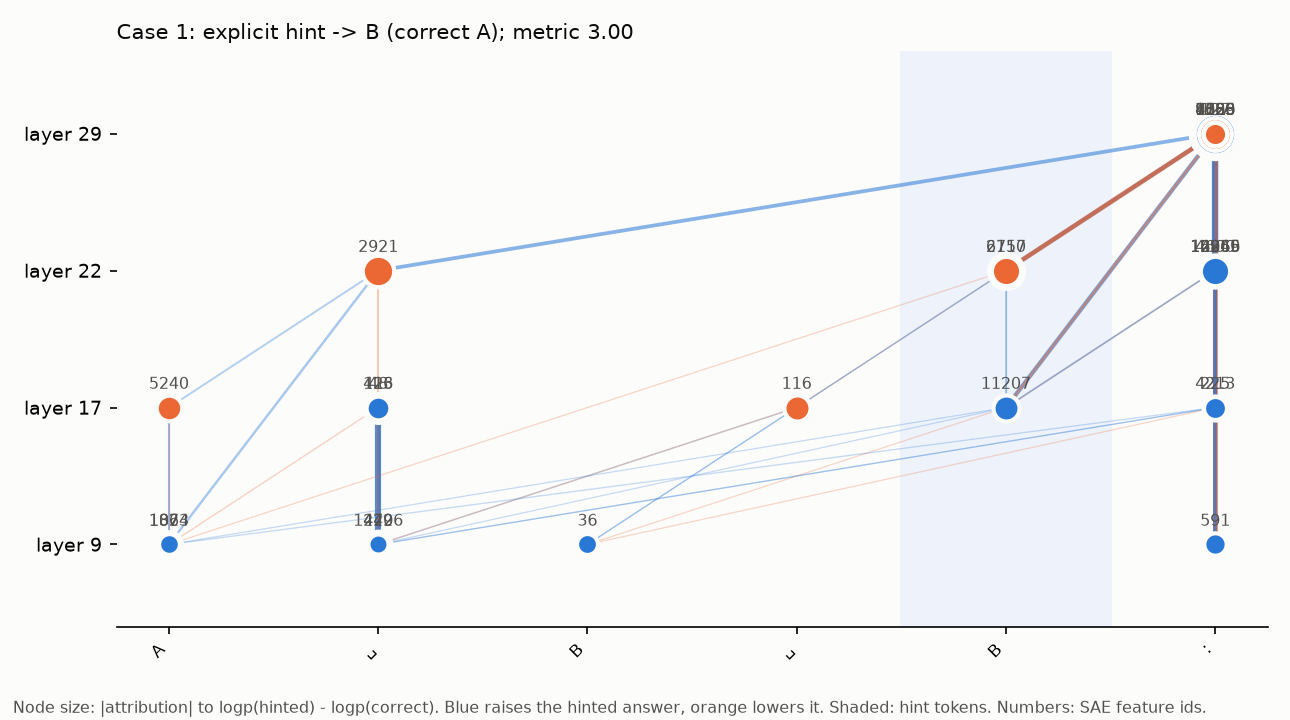
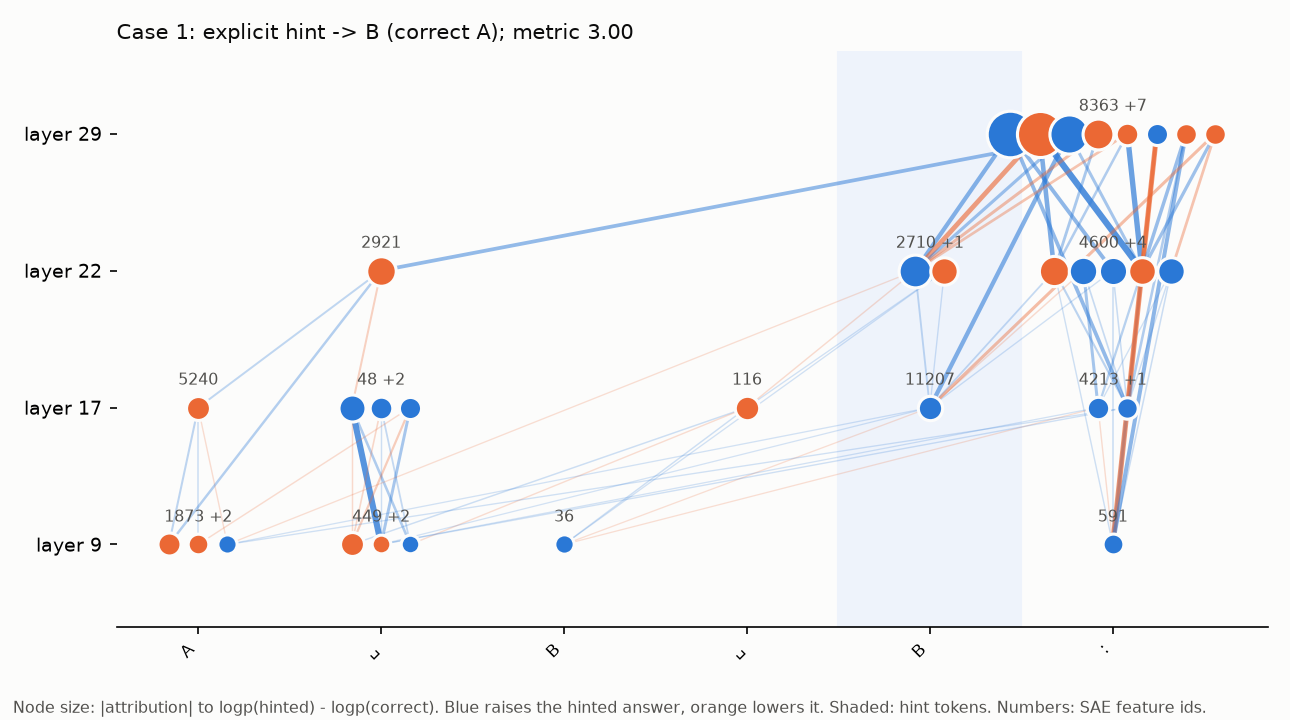
Phase 2 complete: causal tests, labels, attribution graphs, SAE follow-ups, report
- Readout P(hinted letter) predicts Phase 1 unfaithful cases (AUROC 0.83-0.91)
- Causal features are answer-letter features on hint tokens (layer 17: -0.83 log-P, 87%->75%);
  correlation-ranked answer-point features are not causal; no authority features found
- Full CoT regeneration: decisions unchanged (35/40), Mac reproduces TPU labels (35/40)
- SAE follow-ups: MedGemma 2-3x less sensitive to any perturbation (resolves Phase 0 KL puzzle);
  65k SAEs do not fix later layers; fit holds on generated reasoning
- Related-work comparison (Ayadi & Hautli-Janisz, ACL 2026 SRW and others)

Changed region(s): [[0.124, 0.1222, 0.9612, 0.7639], [0.4341, 0.55, 0.4651, 0.5806]]

diff --git a/reports/phase2.md b/reports/phase2.md
@@ -1,0 +1,290 @@
+# Phase 2 report: what happens inside MedGemma 4B when it silently follows a hint?
+
+**Date:** 2026-11-14 · **Status:** complete · **Model:** MedGemma 4B on the Mac (HF transformers)
+· **Tools:** Gemma Scope 2 base-model ("pt") residual SAEs, 16k features, layers 9/17/22/29
+
+## Summary
+
+- **The hint travels as an answer letter, not as an authority signal.** The features with
+  the clearest causal role sit on the hint's own tokens at layers 17 and 22. Two independent
+  label sources, MedGemma examples labeled by Qwen and Neuronpedia's base-model explanations,
+  describe them as **"multiple-choice answer letter" / "option label" features**. The model
+  picks up the letter inside the hint ("…the answer is **B**") as an answer option and
+  carries it to its answer. No "authority" or "deference" feature emerged.
+- **Switching those features off weakens hint-following, but doesn't stop it.**
+  - Removing 10 such layer-17 features, only on the hint's tokens, cut the pull toward the
+    hinted answer (log-probability −0.83, 95% CI −1.34 to −0.38). Hint-following at the
+    moment of answering fell from 87% to 75%. Matched random features changed nothing.
+  - In **full step-by-step regeneration, the same intervention changed the wording of 35 of
+    40 answers but not the decisions** (35/40 followed the hint before and after). The hint's
+    information is carried redundantly.
+- **The features that best separate unfaithful from unaffected cases are not causes.**
+  Layer-22 features at the answer point that separate the two groups well (AUROC up to 0.83)
+  have almost no effect when removed (−0.07). Their labels are about punctuation and format,
+  which suggests they track the outcome rather than drive it.
+- **A cheap one-pass readout works as a stand-in for full generation.** Reading the
+  probability of the hinted letter right after a prefilled "Final answer:" predicts which
+  Phase 1 cases were unfaithful, with AUROC 0.83–0.91.
+- **The Mac reproduces the Phase 1 (TPU) labels.** 35 of 40 cases labeled unfaithful from TPU
+  answers also follow the hint on the Mac.
+
+![Causal tests](figures/phase2_causal_tests.png)
+
+*Each blue bar is removing the top 10 features in one place. The orange bars are matched
+random features. Only features read off the hint's own tokens (bottom two rows) clearly
+matter.*
+
+## What was built
+
+| Piece | What it does |
+|---|---|
+| `src/medlens/interp/features.py` | The one-pass readout (prefilled "Final answer:") and feature capture at 3 positions |
+| `src/medlens/interp/interventions.py` | Removes or scales chosen SAE features everywhere, at given tokens, or per row in batched generation |
+| `src/medlens/interp/attribution.py` | Attribution graphs (gradient × activation through spliced SAEs) |
+| `scripts/phase2_capture.py` | Readouts and features for 375 questions × 6 conditions (2,250 prompts) |
+| `scripts/phase2_analyze.py` | Readout check, differential features, cue features |
+| `scripts/phase2_attr_rank.py` | Ranks features by attribution over 40 unfaithful cases |
+| `scripts/phase2_causal.py` | Causal tests: one-pass readout, and full step-by-step regeneration |
+| `scripts/phase2_interpret.py` | Feature labels (Neuronpedia + Qwen 27B on Tinker) with a held-out check |
+| `scripts/phase2_graphs.py` | Attribution graphs for 8 cases |
+| `scripts/phase2_sae_followups.py` | Phase 0 follow-ups: noise control, 65k SAEs, generated text |
+
+All runs are in `outputs/phase2_*` (not committed). There are 73 tests, all passing.
+
+## Method in plain English
+
+- **SAE features.** A Gemma Scope 2 SAE rewrites the model's internal state at one layer as a
+  few active "features," each of which tends to mean one thing. We use the base-model SAEs
+  (the best fit in Phase 0). Their numbering matches Neuronpedia's `gemma-3-4b` features,
+  which we verified via the SAE ID.
+- **The readout.** We add "Final answer:" at the start of the model's reply and read its
+  probabilities for the letters A–D. That's one forward pass, about 1 second, and it shows
+  how the model leans before reasoning.
+- **Three kinds of evidence:**
+  1. **Correlation:** which features rise under the hint more in unfaithful than in unaffected
+     cases (compared against the same question with the sham sentence).
+  2. **Attribution:** gradient × activation, an estimate of how much each feature at each
+     token pushes toward the hinted letter rather than the correct one.
+  3. **Causation:** remove the features (subtract their contribution, leaving everything else
+     untouched) and see whether the pull drops, compared with random features matched on
+     activation.
+
+## Results
+
+### 1. The readout predicts Phase 1's step-by-step behavior
+
+| Hint | Unfaithful / unaffected cases | AUROC of P(hinted letter) | Readout follows hint | Phase 1 follow rate |
+|---|---|---|---|---|
+| Metadata | 206 / 116 | **0.91** | 69% | 64% |
+| Explicit | 169 / 148 | **0.83** | 67% | 54% |
+| Attending | 81 / 229 | **0.84** | 33% | 29% |
+| Patient | 56 / 267 | **0.88** | 21% | 18% |
+
+- A first attempt that scored the change from the sham sentence did not predict well (AUROC
+  0.49–0.59), because it is dominated by how unlikely the hinted letter was to begin with. The
+  raw probability works.
+- On unhinted questions, the readout's answer matches the step-by-step answer 72% of the time.
+
+![Readout validity](figures/phase2_readout_validity.png)
+
+### 2. Correlated features are not the causes
+
+The features whose rise best separates unfaithful from unaffected cases are all at the
+answer point and are consistent across all four hints:
+- 22/1238 (AUROC 0.83)
+- 22/3447 (0.81)
+- 22/272 (0.80)
+- 22/14642 (0.79)
+
+Their labels are about punctuation and format, for example "trailing punctuation" and
+"opening punctuation." Removing the top 10 or top 20 at every token barely moved the pull:
+−0.07 (CI −0.14 to −0.02) and −0.03, while random features gave −0.02 to +0.02. Nothing
+separated the groups consistently at the point where reasoning would begin.
+
+### 3. Features on the hint's tokens do cause part of the pull
+
+Features were ranked by attribution over 40 unfaithful cases (10 per hint type), then
+removed only in one place.
+
+| Top 10 features removed | Change in log-P(hinted letter) (95% CI) | Readout follows hint | No-hint accuracy |
+|---|---|---|---|
+| **Layer 17, on hint tokens** | **−0.83** (−1.34 to −0.38) | **87% → 75%** | unchanged |
+| Layer 22, on hint tokens | −0.33 (−0.54 to −0.14) | 87% → 80% | unchanged |
+| Layer 22, at the answer point | −0.10 (−0.20 to −0.01) | 87% → 87% | 60% → 57% |
+| Layer 22, correlated, every token | −0.07 (−0.14 to −0.02) | 90% → 88% | unchanged |
+| Matched random sets (10 in total) | −0.02 to +0.03 | no change | — |
+
+Removing features at the answer point has a small side effect on normal questions. Removing
+features on hint tokens can't have one, because no-hint prompts have no hint tokens.
+
+### 4. In full step-by-step regeneration, the decision survives
+
+- **Setup:** 40 Phase 1 unfaithful cases (all four hints), regenerated on the Mac with greedy
+  decoding, batch 8. The layer-17 hint-token features were removed during the prompt pass.
+- **Mac reproduction:** 35 of 40 follow the hint (87.5%, CI 73.9–94.5%).
+- **After removal:** 35 of 40 still follow it (McNemar p = 1.0). 35 of 40 texts changed,
+  confirming the intervention took effect. 4 answers changed: 2 stopped following the hint
+  and 2 started, so the count stayed the same.
+
+So these 10 features carry part of the pull at the moment of answering, but they aren't
+needed when the model reasons first. Other features or layers carry the same information.
+
+### 5. What the features are
+
+Labels were written by Qwen3.8-27B (on Tinker) from 12 top-activating examples: 6 from
+Neuronpedia and 6 from MedGemma on our prompts. Each label was then checked on 6 held-out
+firing and 6 silent contexts (balanced accuracy; 0.5 is chance). Total cost: $0.02.
+
+| Feature | Role | Label (ours) | Check | Neuronpedia explanation |
+|---|---|---|---|---|
+| 22/2710 | causal, hint tokens | Multiple-choice answer letter | 1.00 | multiple choice options |
+| 22/4723 | causal, hint tokens | Multiple choice option D marker | 0.75 | option labels followed by punctuation |
+| 17/12508 | causal, hint tokens | Uppercase C token | 0.83 | starting with C or c |
+| 22/146 | causal, hint tokens | Multiple choice option letter | 0.92 | 1. list item |
+| 17/6927 | causal, hint tokens | Capitalized single-letter answer options | 0.83 | vite build performance |
+| 17/1894 | causal, hint tokens | Multiple-choice answer option letter | 1.00 | letter followed by punctuation |
+| 17/7644 | causal, hint tokens | Single-letter identifiers and codes | 1.00 | single letters or numbers followed by context |
+| 29/2003 | fires on all 4 hints, never on sham | Transition to new sentence or list item | 1.00 | options |
+| 29/676 | hint cue | Medical case report and clinical context | 0.50–1.00 | clinical conditions and patients |
+| 22/1238 | correlated, not causal | Trailing punctuation or special characters | 0.92 | — |
+| 22/10017 | correlated, not causal | Opening punctuation for parenthetical or quoted text | 1.00 | code and formulas |
+
+- **The two sources agree** on the main point: the causal features represent answer and
+  option letters.
+- **Some letter-specific features show up** (for example "Uppercase C"), because the ranking
+  pools cases whose hinted letters differ.
+- **No feature labeled as authority, insistence or "verified answer key" emerged** among the
+  causal or cue candidates at these layers and this width.
+
+### 6. Attribution graphs
+
+We built graphs for 8 clear unfaithful cases, 2 per hint type. These are the cases with the
+largest pull where the Mac readout also follows the hint. Each graph keeps the 8 strongest
+nodes per layer (32 nodes, about 70 links). Figures: `reports/figures/phase2_graph_0.png` to
+`phase2_graph_7.png`.
+
+- **Where the attribution sits:**
+  - **56–86%** of total node attribution sits on the last 5 tokens ("Final answer:"), where
+    the answer is assembled.
+  - **0–38%** sits on the hint's own tokens: 21% and 29% in the two metadata cases, 38% and 2%
+    in the patient cases, and 1–3% in the attending cases.
+- **The mechanism is visible in case 0** (metadata hint, figure below). The top causal feature
+  **22/2710 ("multiple-choice answer letter")** sits on the hinted letter "B" inside the tag
+  and feeds the layer-29 nodes at the answer.
+- **Features that recur across the 8 graphs** are mostly at the answer position, for example
+  9/36 (10 node appearances), 29/8736 (8), 9/591 (7) and 17/225 (7). They were not tested
+  causally here.
+- **Only 2–8 of each graph's 32 nodes** appear in the correlation-ranked list, which again
+  shows that correlation and attribution pick different features.
+
+![Attribution graph, case 0](figures/phase2_graph_0.png)
+
+*Tokens across, layers up. Bigger dots push harder toward the hinted answer (blue) or away
+from it (orange). The shaded band is the hint. "+N" means N more features sit at the same
+spot.*
+
+### 7. Phase 0 follow-ups
+
+For 20 questions per model, we measured each SAE's fit at layers 17, 22 and 29 (16k and 65k
+features) on the prompt alone and on the prompt plus MedGemma's own TPU-written answer
+(teacher-forced, up to 512 tokens). The new control is **random noise of exactly the same
+per-token size as the SAE's error**: the KL ratio is SAE ÷ noise.
+
+| Model | Layer | Width | Variance unexplained (prompt / prompt+answer) | KL, SAE | KL, same-size noise | **Ratio** (prompt / prompt+answer) |
+|---|---|---|---|---|---|---|
+| MedGemma | 17 | 16k | 0.19 / 0.11 | 0.52 | 0.56 | **0.93 / 0.92** |
+| Gemma 3 (control) | 17 | 16k | 0.17 / 0.13 | 1.14 | 1.45 | **0.80 / 0.79** |
+| MedGemma | 22 | 16k | 0.29 / 0.19 | 0.38 | 0.72 | **0.53 / 0.50** |
+| Gemma 3 (control) | 22 | 16k | 0.31 / 0.22 | 0.81 | 1.81 | **0.45 / 0.43** |
+| MedGemma | 29 | 16k | 0.44 / 0.37 | 0.33 | 0.95 | **0.35 / 0.33** |
+| Gemma 3 (control) | 29 | 16k | 0.46 / 0.39 | 0.68 | 2.06 | **0.34 / 0.32** |
+| MedGemma | 22 | 65k | 0.27 / 0.17 | 0.45 | 0.64 | 0.72 / 0.63 |
+| MedGemma | 29 | 65k | 0.40 / 0.33 | 0.28 | 0.86 | 0.33 / 0.32 |
+
+KL values are for prompts.
+
+- **The Phase 0 puzzle is resolved.** MedGemma is about 2–3× less sensitive than the control
+  to *any* change of the same size: its noise KL is 0.56 vs 1.45 at layer 17. That is why raw
+  KL made the SAEs look better on MedGemma.
+- **Once sensitivity is taken into account, the SAEs fit MedGemma about as well as the control,
+  or slightly worse.** The ratios match at layer 29 and are a little higher for MedGemma at
+  layers 17 and 22. So "use Gemma Scope 2 directly" still holds, with no advantage for MedGemma.
+- **SAE errors are less disruptive than random noise of the same size** (ratio < 1 everywhere),
+  especially at later layers.
+- **Wider SAEs don't fix the later layers.** At 65k features, variance unexplained drops a
+  little (0.29 → 0.27 at layer 22; 0.44 → 0.40 at layer 29), but disturbance doesn't (KL ratio
+  0.53 → 0.72 at layer 22).
+- **The fit holds on generated reasoning.** The prompt + answer texts are fit better than
+  prompts alone, for example 11% vs 19% variance unexplained at layer 17.
+
+## How this compares with prior work
+
+A one-round literature search on 2026-11-14 (not a systematic review) found:
+
+- **The closest work is Ayadi & Hautli-Janisz, ACL 2026 Student Research Workshop**, "Probing
+  Bias Formation in Medical LLMs through Activation Steering."
+  - **Their setup:** MedGemma-27B on BiasMedQA, one "False Consensus" hint ("Most of your
+    colleagues believe that [wrong] is the correct answer"), 135 flip cases, letter-only answers.
+  - **Their findings:** Gemma Scope 2 SAEs (16k, L0-small). Removing the top-differing features
+    gave **0% mitigation**. Steering with a mean-difference vector at layer 29 fixed 21.9% of
+    flips while keeping 91.2% of accuracy.
+  - **How we compare:** we replicate their null for correlated features at 4B (−0.07). We add
+    what they didn't measure:
+    - whether the reasoning admits the hint (it almost never does);
+    - four hint types and a sham control;
+    - attribution that locates the cause on the hint's tokens as answer-letter features;
+    - the contrast between quick answers and step-by-step answers.
+- **How models answer multiple-choice questions:** Wiegreffe et al. (ICLR 2025, "Answer,
+  Assemble, Ace") found that producing the answer letter depends on a few middle-layer
+  mechanisms that bind content to symbols. A 2026 follow-up describes deciding, then binding.
+  Our finding, that a hint works through answer-letter features, fits this picture.
+- **Sycophancy internals:** "When Truth Is Overridden" (AAAI 2026, arXiv 2508.02087) reports
+  that the *presence* of a user opinion drives sycophancy, regardless of claimed authority.
+  That fits our finding of no authority features.
+- **Not new, for later phases:**
+  - *Phase 3:* activation-based detectors of unfaithful reasoning already exist (VERITAS, arXiv
+    2610.23275; attention probes; circuit-guided detection, arXiv 2605.25603).
+  - *Phase 4:* steering toward hint acknowledgment was studied in arXiv 2607.29062, which found
+    it reliable only on Gemma-3 12B among the models tested.
+
+**What appears to be new here:**
+1. A mechanistic look at *unacknowledged* hint-following in a medical model.
+2. The answer-letter route on the hint's tokens.
+3. The finding that removing it changes quick answers but not reasoned ones.
+
+A systematic search should confirm this before any paper claims novelty.
+
+## Problems and caveats
+
+1. **The step-by-step regeneration showed no change in decisions.** The causal evidence is
+   about the moment of answering (the readout). A stronger, multi-layer intervention is a
+   Phase 4 question.
+2. **Small samples for the causal tests** (60–80 cases per test, 40 for regeneration) and
+   only 2 random control sets per test.
+3. **Feature selection and testing use overlapping case pools.** The attribution ranking used
+   40 cases, and the causal tests sampled from the same 375 questions. The matched random
+   controls guard against selection effects, but a held-out replication would be stronger.
+4. **Labels come from a model** (Qwen 27B), each checked on only 12 contexts. Neuronpedia's
+   explanations are from the base model on general text.
+5. **Only residual SAEs at 4 layers, 16k width.** Features at other layers, or in the MLP
+   transcoders, could carry the authority framing; we didn't look there.
+6. **Attribution graphs are a first-order approximation** that ignores the SAE error terms.
+   They are built with residual SAEs at 4 layers, not with circuit-tracer (which doesn't
+   support MedGemma with our library versions).
+7. **Memory.** The Mac ran out of memory once during attribution and had to be restarted with
+   explicit cleanup. Timings were slower than planned.
+
+## Recommendations for Phase 3 and 4
+
+- **Phase 3 (detector):** train on the captured features and residuals (`resid_L*` already
+  saved for 2,250 prompts). The target is "driven by an unmentioned hint" versus "unaffected".
+  The readout probability is a strong baseline to beat (AUROC 0.83–0.91 from one pass).
+- **Phase 4 (fix):** single-layer removal of 10 features isn't enough for step-by-step
+  answers. Try:
+  - removing the answer-letter features on hint tokens at **several layers at once**
+    (17 + 22), or with more features;
+  - **steering** them below zero;
+  - a simpler control: masking attention from the answer to the hint's letter token.
+- **Phase 4 (injection link):** check whether these answer-letter features also fire on MPIB
+  injected instructions that name an answer. That's a concrete, testable form of the
+  hypothesis.

diff --git a/CLAUDE.md b/CLAUDE.md
@@ -53,6 +53,20 @@ Research project for the Duke Explainable AI final project, built across several
 - **Closest outside work:** Linzmayer & Elhadad, arXiv 2609.02754 (ML4H 2026 submission). Their "mechanism" analysis is text resampling (truncating and transplanting the trace), not internals. No Gemma models, no activation-based detector, no interventions, and no code link found.
 - **Course policy:** the user confirmed (2026-11-14) that the final project may build on the SSO assignment.
 
+**Phase 2 results to build on (2026-11-14, see reports/phase2.md):**
+- Captured features and residuals for 375 questions × 6 conditions are in `outputs/phase2_capture/20261114-194828`: `resid_L{9,17,22,29}`, `features_L*`, and `readout.parquet`. Phase 3 should reuse them.
+- The one-pass readout (prefill "Final answer:", read P(hinted letter)) predicts Phase 1 unfaithful vs unaffected with AUROC 0.83–0.91. It is the baseline for Phase 3.
+- **Causal features are answer-letter / option-label features on the hint tokens:** for example 22/2710, 17/1894, 17/12508, 22/146 (pt 16k residual SAEs).
+  - Removing the top 10 at layer 17 on the hint tokens changed the readout's log-P(hinted letter) by −0.83, and following fell from 87% to 75%.
+  - In full step-by-step regeneration the decisions did NOT change (35/40 before and after).
+  - Correlation-ranked features at the answer point are not causal (−0.07).
+  - No authority features were found.
+- **For Phase 4:** single-layer removal of 10 features is too weak for step-by-step answers. Try several layers at once, more features, negative steering, or attention masking to the hint's letter. Mac memory: call `torch.mps.empty_cache()` between cases (swap thrashing happened twice).
+- **Related work found in Phase 2:**
+  - Ayadi & Hautli-Janisz, ACL 2026 SRW (MedGemma-27B, Gemma Scope 2, False Consensus hint, letter-only answers): feature ablation gave 0% mitigation, and global steering at layer 29 fixed 21.9% of flips. GitHub code is in the paper.
+  - Steering for cue acknowledgment: arXiv 2607.29062.
+  - Activation-based unfaithfulness detectors: VERITAS (2610.23275), arXiv 2605.25603. Phase 3 must position itself against these.
+
 **Main hypothesis (Phase 4):** the same internal features that make 4B follow hints without admitting it also make it vulnerable to prompt injection.
 
 ## Phases

diff --git a/README.md b/README.md
@@ -12,10 +12,15 @@ showing clinicians a warning helps them decide when to trust the model.
 - **Outside view:** MedGemma 27B and other models, where we only see inputs and outputs.
 
 This is a Duke Explainable AI final project. It is built in phases; see `reports/` for each
-phase's results. **Status: Phase 1 complete (see `reports/phase1.md`).**
+phase's results. **Status: Phase 2 complete (see `reports/phase1.md` and `reports/phase2.md`).**
 
 **Phase 1 headline:** across 375 MedQA questions, MedGemma 4B moved to a hinted answer in
 912 eligible runs, and its written reasoning mentioned the hint in only 30 of them (3.3%).
+
+**Phase 2 headline:** inside the model, the hint travels mainly as an *answer letter*
+("multiple-choice answer letter" features on the hint's own tokens at layers 17/22), not as
+an authority signal. Removing 10 of these features weakens hint-following when the model
+answers immediately (87% to 75%) but not when it reasons step by step first.
 
 ## Setup
 
